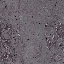
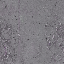
Improve regions

diff --git a/assets/js/hooks/aim.js b/assets/js/hooks/aim.js
@@ -78,7 +78,7 @@ export const hooks = {
         marker.setAttribute('orient', 'auto');
         const polygon = document.createElementNS('http://www.w3.org/2000/svg', 'polygon');
         polygon.setAttribute('points', '0 0, 10 3.5, 0 7');
-        polygon.setAttribute('fill', '#A65DFC');
+        polygon.setAttribute('fill', '#330C03');
         marker.appendChild(polygon);
         defs.appendChild(marker);
         this.svg.appendChild(defs);
@@ -104,7 +104,7 @@ export const hooks = {
             gradient.setAttribute('y2', y2);
             gradient.setAttribute('gradientUnits', 'userSpaceOnUse');
 
-            const lineColor = '#A65DFC';
+            const lineColor = '#330C03';
             const stop1 = document.createElementNS('http://www.w3.org/2000/svg', 'stop');
             stop1.setAttribute('offset', '0%');
             stop1.setAttribute('stop-color', lineColor);